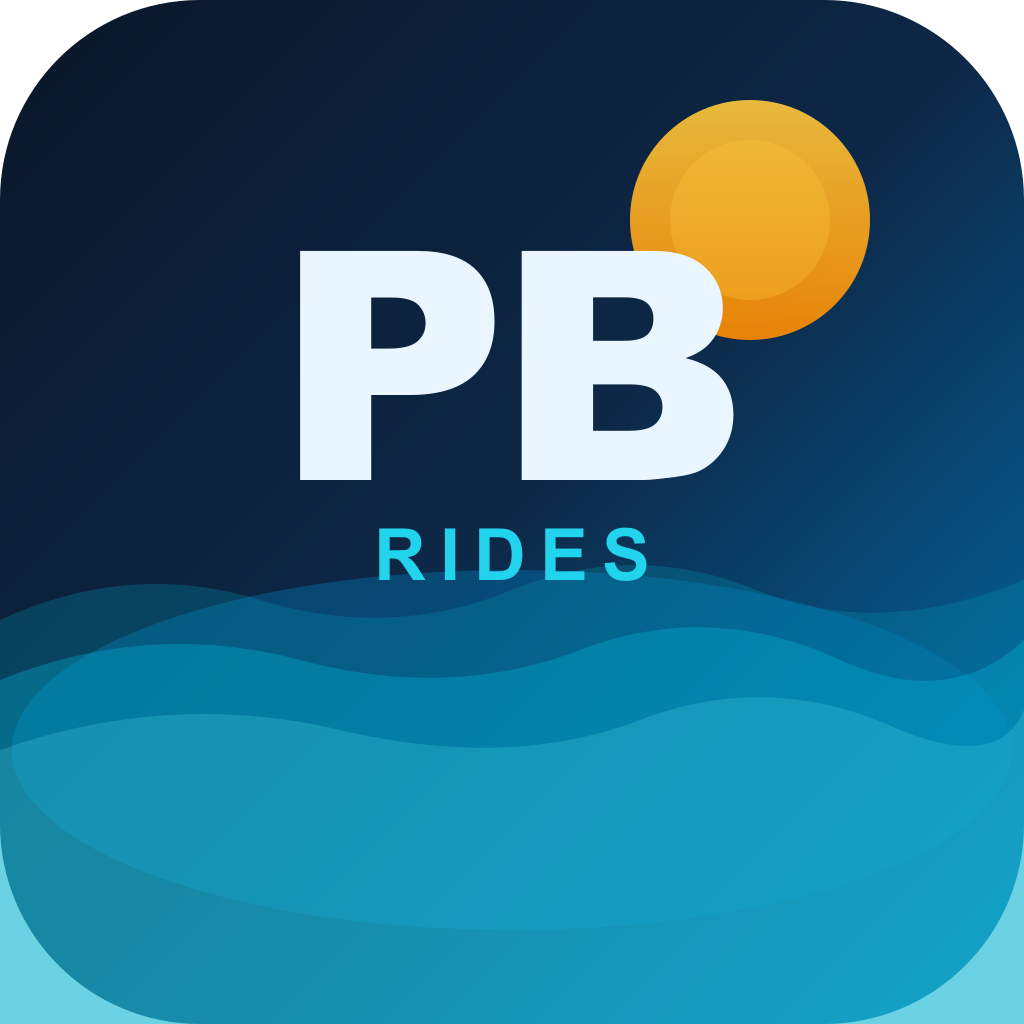
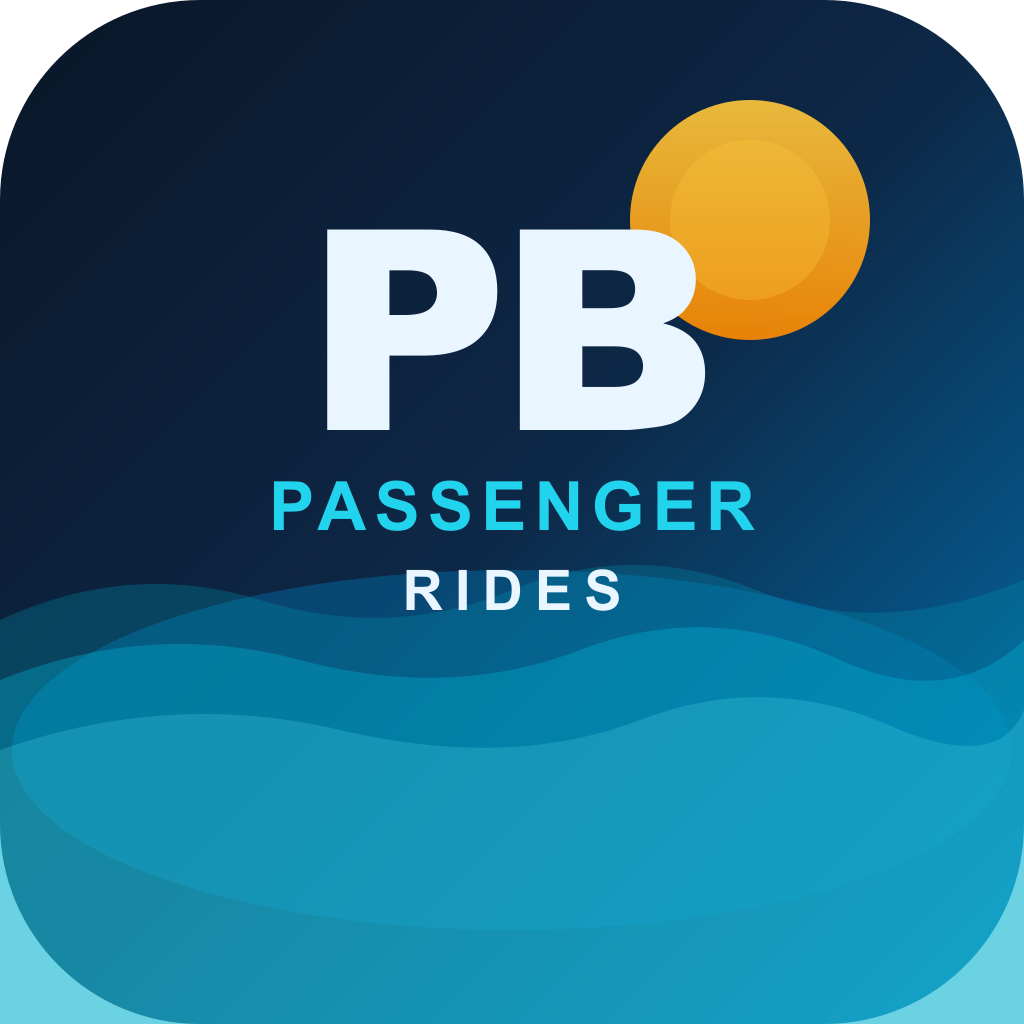
Separate rider and driver into two distinct apps (Passenger + Captain)

Changed region(s): [[0.25, 0.2188, 0.75, 0.5938]]

diff --git a/mobile/App.tsx b/mobile/App.tsx
@@ -8,6 +8,7 @@ import { AuthProvider, useAuth } from "./src/context/AuthContext";
 import { Loading } from "./src/components/Loading";
 import { theme } from "./src/theme";
 import { loadNotificationPrefs, requestNotificationPermission } from "./src/utils/notifications";
+import { BUILD_TARGET } from "./src/config";
 import type { RootStackParamList } from "./src/navigation";
 
 import { AuthScreen } from "./src/screens/rider/AuthScreen";
@@ -59,7 +60,7 @@ function Root() {
         routes: [{ name: "Auth" }],
       });
     } else if (!prevUser.current && user) {
-      const route: keyof RootStackParamList = user.role === "driver" ? "DriverTabs" : "RiderTabs";
+      const route: keyof RootStackParamList = BUILD_TARGET === "driver" ? "DriverTabs" : "RiderTabs";
       navRef.current.reset({
         index: 0,
         routes: [{ name: route }],
@@ -71,7 +72,7 @@ function Root() {
   if (loading) return <Loading label="PointBreak Rides Fiji" />;
 
   const initialRoute: keyof RootStackParamList = user
-    ? user.role === "driver"
+    ? BUILD_TARGET === "driver"
       ? "DriverTabs"
       : "RiderTabs"
     : "Auth";
@@ -87,20 +88,28 @@ function Root() {
         }}
       >
         <Stack.Screen name="Auth" component={AuthScreen} />
-        <Stack.Screen name="RiderTabs" component={RiderTabs} options={{ gestureEnabled: false }} />
-        <Stack.Screen name="DriverTabs" component={DriverTabs} options={{ gestureEnabled: false }} />
-        <Stack.Screen name="RideOptions" component={RideOptionsScreen} />
-        <Stack.Screen name="Requesting" component={RequestingScreen} options={{ gestureEnabled: false }} />
-        <Stack.Screen name="ActiveRide" component={ActiveRideScreen} options={{ gestureEnabled: false }} />
-        <Stack.Screen name="RideComplete" component={RideCompleteScreen} options={{ gestureEnabled: false }} />
-        <Stack.Screen name="History" component={HistoryScreen} />
-        <Stack.Screen name="Profile" component={ProfileScreen} />
-        <Stack.Screen name="Wallet" component={WalletScreen} />
-        <Stack.Screen name="Guide" component={GuideScreen} />
-        <Stack.Screen name="Settings" component={SettingsScreen} />
-        <Stack.Screen name="DriverRide" component={DriverRideScreen} options={{ gestureEnabled: false }} />
-        <Stack.Screen name="DriverEarnings" component={DriverEarningsScreen} />
-        <Stack.Screen name="DriverProfile" component={DriverProfileScreen} />
+        {BUILD_TARGET === "rider" && (
+          <>
+            <Stack.Screen name="RiderTabs" component={RiderTabs} options={{ gestureEnabled: false }} />
+            <Stack.Screen name="RideOptions" component={RideOptionsScreen} />
+            <Stack.Screen name="Requesting" component={RequestingScreen} options={{ gestureEnabled: false }} />
+            <Stack.Screen name="ActiveRide" component={ActiveRideScreen} options={{ gestureEnabled: false }} />
+            <Stack.Screen name="RideComplete" component={RideCompleteScreen} options={{ gestureEnabled: false }} />
+            <Stack.Screen name="History" component={HistoryScreen} />
+            <Stack.Screen name="Profile" component={ProfileScreen} />
+            <Stack.Screen name="Wallet" component={WalletScreen} />
+            <Stack.Screen name="Guide" component={GuideScreen} />
+            <Stack.Screen name="Settings" component={SettingsScreen} />
+          </>
+        )}
+        {BUILD_TARGET === "driver" && (
+          <>
+            <Stack.Screen name="DriverTabs" component={DriverTabs} options={{ gestureEnabled: false }} />
+            <Stack.Screen name="DriverRide" component={DriverRideScreen} options={{ gestureEnabled: false }} />
+            <Stack.Screen name="DriverEarnings" component={DriverEarningsScreen} />
+            <Stack.Screen name="DriverProfile" component={DriverProfileScreen} />
+          </>
+        )}
       </Stack.Navigator>
     </NavigationContainer>
   );

diff --git a/mobile/src/screens/rider/AuthScreen.tsx b/mobile/src/screens/rider/AuthScreen.tsx
@@ -18,6 +18,7 @@ import { Segmented } from "../../components/Segmented";
 import { api, StoredSession } from "../../api/client";
 import { theme } from "../../theme";
 import { detectCountry, toE164 } from "../../utils/phoneDetect";
+import { BUILD_TARGET } from "../../config";
 
 type Tab = "rider" | "driver";
 type Mode = "login" | "signup" | "otp";
@@ -39,7 +40,7 @@ const VEHICLE_TYPES = {
 
 export function AuthScreen() {
   const { login } = useAuth();
-  const [tab, setTab] = useState<Tab>("rider");
+  const [tab, setTab] = useState<Tab>(BUILD_TARGET as Tab);
   const [mode, setMode] = useState<Mode>("login");
   const [loading, setLoading] = useState(false);
   const [error, setError] = useState<string | null>(null);
@@ -59,7 +60,7 @@ export function AuthScreen() {
   const [vName, setVName] = useState("");
   const [vPlate, setVPlate] = useState("");
 
-  const role = tab;
+  const role = BUILD_TARGET as Tab;
 
   const finish = (data: StoredSession) => {
     login(data);
@@ -181,23 +182,19 @@ export function AuthScreen() {
             <View style={styles.logo}>
               <Text style={styles.logoEmoji}>🏄</Text>
             </View>
-            <Text style={styles.brand}>PointBreak Rides Fiji</Text>
+            <Text style={styles.brand}>
+              {BUILD_TARGET === "driver" ? "PointBreak Captain" : "PointBreak Rides Fiji"}
+            </Text>
             <Text style={styles.tagline}>
-              Ride, boat & charter across every island 🌊
+              {BUILD_TARGET === "driver"
+                ? "Earn by driving passengers across Fiji 🧭"
+                : "Ride, boat & charter across every island 🌊"}
             </Text>
           </View>
 
-          <Segmented
-            options={[
-              { value: "rider", label: "🚕 Rider" },
-              { value: "driver", label: "🧭 Driver" },
-            ]}
-            value={tab}
-            onChange={(v) => {
-              setTab(v);
-              resetMode();
-            }}
-          />
+          <Text style={styles.appLabel}>
+            {BUILD_TARGET === "driver" ? "🧭 Captain App" : "🚕 Passenger App"}
+          </Text>
 
           {mode === "otp" ? (
             <View style={styles.form}>
@@ -370,6 +367,7 @@ const styles = StyleSheet.create({
   },
   logoEmoji: { fontSize: 40 },
   brand: { color: theme.text, fontSize: 24, fontWeight: "900", letterSpacing: 0.3 },
+  appLabel: { color: theme.accentBright, fontSize: 13, fontWeight: "700", marginTop: 6, textAlign: "center", backgroundColor: theme.surfaceAlt, borderRadius: 8, paddingHorizontal: 14, paddingVertical: 6, overflow: "hidden" },
   tagline: { color: theme.textMuted, fontSize: 13, marginTop: 6 },
   sectionLabel: {
     color: theme.text,

diff --git a/desktop-driver/main.js b/desktop-driver/main.js
@@ -1,0 +1,51 @@
+const { app, BrowserWindow, shell } = require("electron");
+const path = require("path");
+
+const SERVER_URL = "https://pointbreak-fiji.onrender.com";
+
+let mainWindow;
+
+function createWindow() {
+  mainWindow = new BrowserWindow({
+    width: 420,
+    height: 820,
+    minWidth: 380,
+    minHeight: 600,
+    backgroundColor: "#1a0a00",
+    icon: path.join(__dirname, "..", "mobile", "assets-driver", "icon.png"),
+    title: "PointBreak Captain",
+    webPreferences: {
+      preload: path.join(__dirname, "preload.js"),
+      nodeIntegration: false,
+      contextIsolation: true,
+    },
+    autoHideMenuBar: true,
+    titleBarStyle: "hidden",
+    titleBarOverlay: {
+      color: "#1a0a00",
+      symbolColor: "#FEF3C7",
+      height: 36,
+    },
+  });
+
+  mainWindow.loadURL(SERVER_URL);
+
+  mainWindow.webContents.setWindowOpenHandler(({ url }) => {
+    shell.openExternal(url);
+    return { action: "deny" };
+  });
+
+  mainWindow.on("closed", () => {
+    mainWindow = null;
+  });
+}
+
+app.whenReady().then(createWindow);
+
+app.on("window-all-closed", () => {
+  app.quit();
+});
+
+app.on("activate", () => {
+  if (BrowserWindow.getAllWindows().length === 0) createWindow();
+});

diff --git a/mobile/src/config.ts b/mobile/src/config.ts
@@ -1,0 +1,9 @@
+import Constants from "expo-constants";
+
+const extra =
+  (Constants as any)?.expoConfig?.extra ??
+  (Constants as any)?.manifest?.extra ??
+  {};
+
+export const BUILD_TARGET: "rider" | "driver" =
+  extra.buildTarget === "driver" ? "driver" : "rider";

diff --git a/desktop-driver/preload.js b/desktop-driver/preload.js
@@ -1,0 +1,2 @@
+const { contextBridge } = require("electron");
+contextBridge.exposeInMainWorld("electronAPI", { platform: process.platform });
